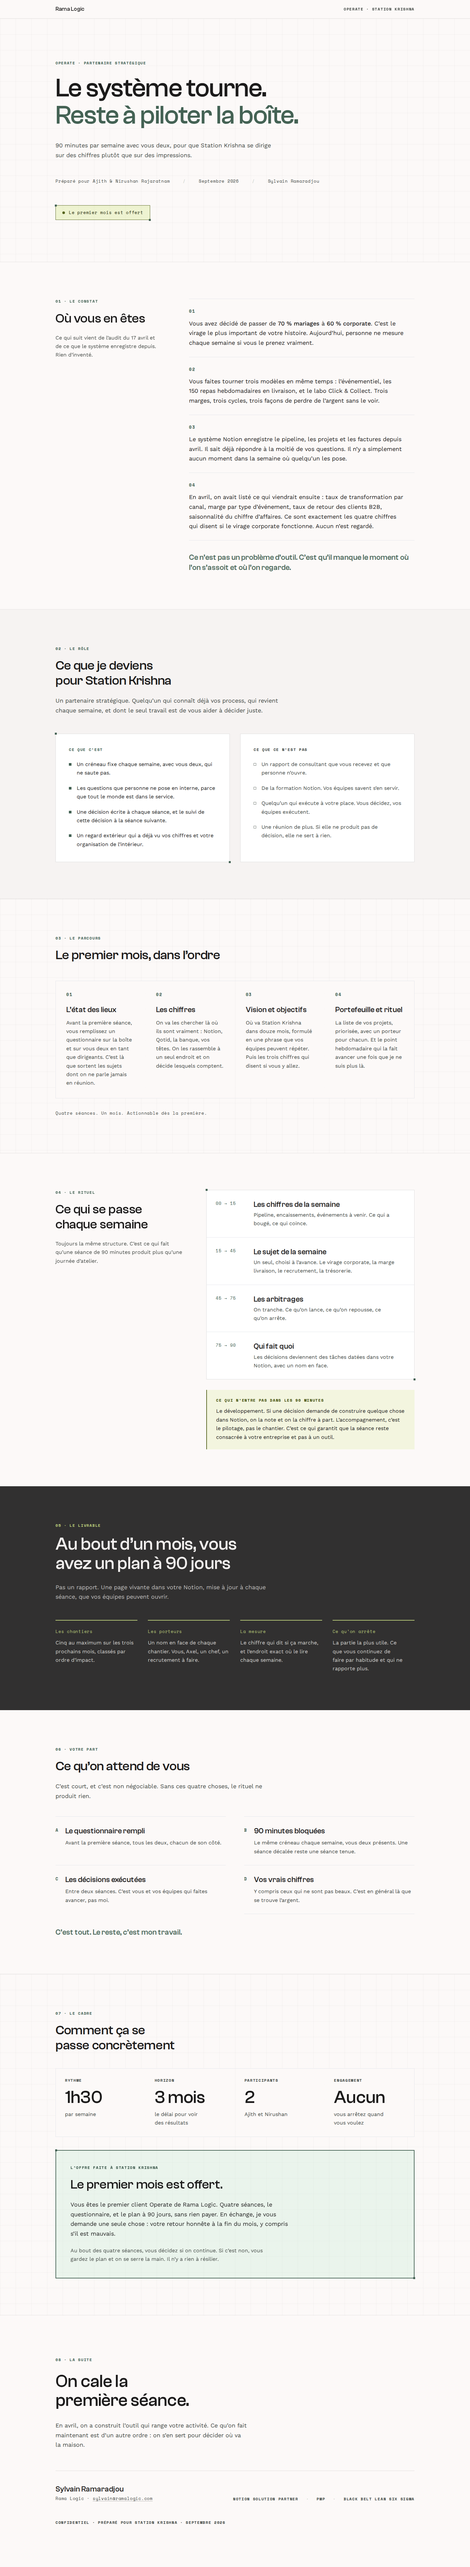
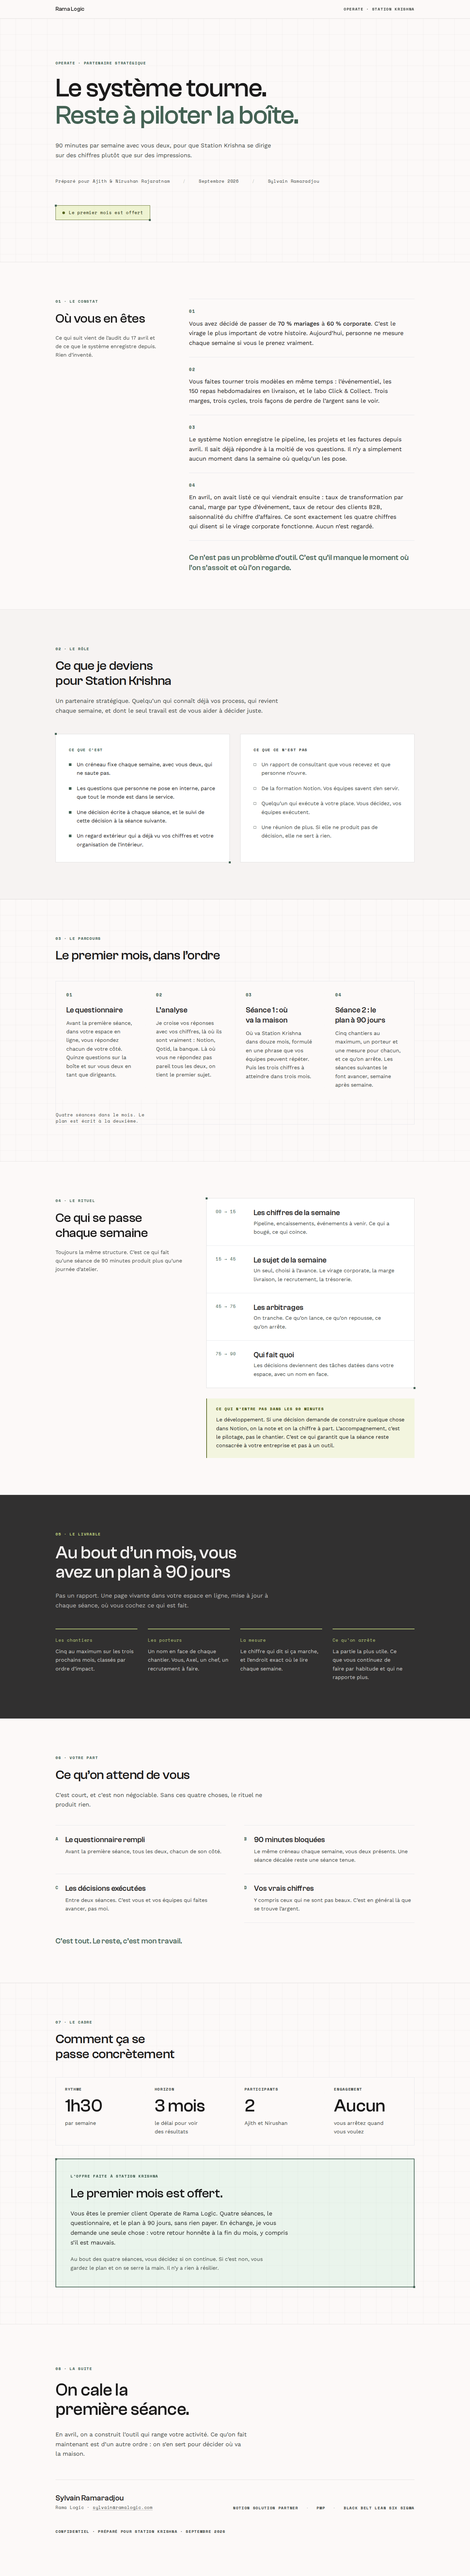
Station Krishna Operate : parcours du premier mois aligne sur l'espace client
Questionnaire puis analyse, seance 1 sur les objectifs, seance 2 sur le plan a 90 jours.
Le plan vit dans l'espace client, pas dans une page Notion partagee.

Claude-Session: https://claude.ai/code/session_01C3r6jG4WBmcuLKNDZNauo7

diff --git a/webpages/decks/2026-09-10_station-krishna-operate_sk7m4x/index.html b/webpages/decks/2026-09-10_station-krishna-operate_sk7m4x/index.html
@@ -279,44 +279,42 @@ tailwind.config = {
 
       <div class="reveal bg-background p-7 md:p-8">
         <p class="step-num mb-5">01</p>
-        <h3 class="font-display text-title mb-3">L’état des lieux</h3>
+        <h3 class="font-display text-title mb-3">Le questionnaire</h3>
         <p class="text-body-reg text-on-surface-variant">
-          Avant la première séance, vous remplissez un questionnaire sur la boîte et sur vous deux
-          en tant que dirigeants. C’est là que sortent les sujets dont on ne parle jamais en réunion.
+          Avant la première séance, dans votre espace en ligne, vous répondez chacun de votre côté.
+          Quinze questions sur la boîte et sur vous deux en tant que dirigeants.
         </p>
       </div>
 
       <div class="reveal bg-background p-7 md:p-8">
         <p class="step-num mb-5">02</p>
-        <h3 class="font-display text-title mb-3">Les chiffres</h3>
+        <h3 class="font-display text-title mb-3">L’analyse</h3>
         <p class="text-body-reg text-on-surface-variant">
-          On va les chercher là où ils sont vraiment&nbsp;: Notion, Qotid, la banque, vos têtes.
-          On les rassemble à un seul endroit et on décide lesquels comptent.
+          Je croise vos réponses avec vos chiffres, là où ils sont vraiment&nbsp;: Notion, Qotid,
+          la banque. Là où vous ne répondez pas pareil tous les deux, on tient le premier sujet.
         </p>
       </div>
 
       <div class="reveal bg-background p-7 md:p-8">
         <p class="step-num mb-5">03</p>
-        <h3 class="font-display text-title mb-3">Vision et objectifs</h3>
+        <h3 class="font-display text-title mb-3">Séance 1&nbsp;: où va la maison</h3>
         <p class="text-body-reg text-on-surface-variant">
-          Où va Station Krishna dans douze mois, formulé en une phrase que vos équipes peuvent répéter.
-          Puis les trois chiffres qui disent si vous y allez.
+          Où va Station Krishna dans douze mois, formulé en une phrase que vos équipes peuvent
+          répéter. Puis les trois chiffres à atteindre dans trois mois.
         </p>
       </div>
 
       <div class="reveal bg-background p-7 md:p-8">
         <p class="step-num mb-5">04</p>
-        <h3 class="font-display text-title mb-3">Portefeuille et rituel</h3>
+        <h3 class="font-display text-title mb-3">Séance 2&nbsp;: le plan à 90 jours</h3>
         <p class="text-body-reg text-on-surface-variant">
-          La liste de vos projets, priorisée, avec un porteur pour chacun.
-          Et le point hebdomadaire qui la fait avancer une fois que je ne suis plus là.
+          Cinq chantiers au maximum, un porteur et une mesure pour chacun, et ce qu’on arrête.
+          Les séances suivantes le font avancer, semaine après semaine.
         </p>
       </div>
 
-    </div>
-
     <p class="mt-9 font-mono text-code-label text-on-surface-variant reveal">
-      Quatre séances. Un mois. Actionnable dès la première.
+      Quatre séances dans le mois. Le plan est écrit à la deuxième.
     </p>
   </div>
 </section>
@@ -362,7 +360,7 @@ tailwind.config = {
             <span class="font-mono text-code-label text-primary sm:w-[92px] shrink-0 sm:pt-[3px]">75&nbsp;→&nbsp;90</span>
             <div>
               <p class="font-display text-title mb-1">Qui fait quoi</p>
-              <p class="text-body-reg text-on-surface-variant">Les décisions deviennent des tâches datées dans votre Notion, avec un nom en face.</p>
+              <p class="text-body-reg text-on-surface-variant">Les décisions deviennent des tâches datées dans votre espace, avec un nom en face.</p>
             </div>
           </div>
         </div>
@@ -387,8 +385,8 @@ tailwind.config = {
     <p class="font-mono text-eyebrow uppercase text-secondary-fixed-dim mb-5 reveal">05 · Le livrable</p>
     <h2 class="font-display text-display-md max-w-[16ch] reveal">Au bout d’un mois, vous avez un plan à 90 jours</h2>
     <p class="mt-7 max-w-[60ch] text-body-lg text-inverse-on-surface/75 reveal">
-      Pas un rapport. Une page vivante dans votre Notion, mise à jour à chaque séance,
-      que vos équipes peuvent ouvrir.
+      Pas un rapport. Une page vivante dans votre espace en ligne, mise à jour à chaque séance,
+      où vous cochez ce qui est fait.
     </p>
 
     <div class="mt-14 grid sm:grid-cols-2 lg:grid-cols-4 gap-6 md:gap-8">
